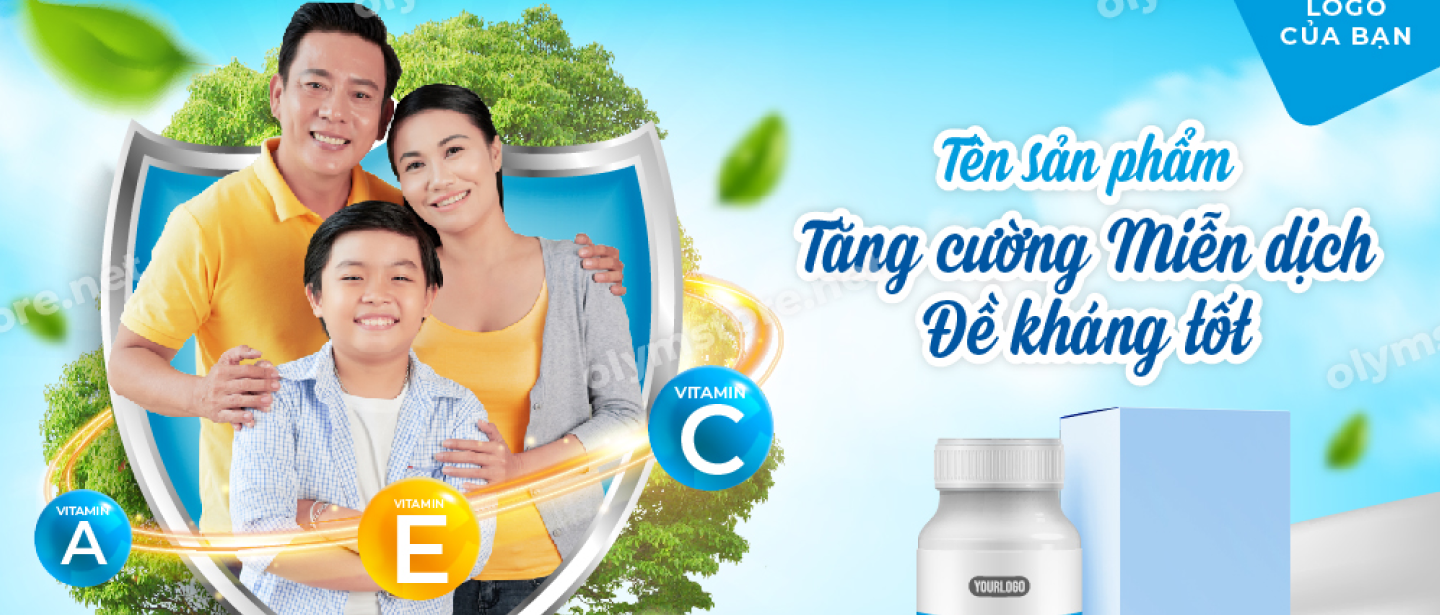
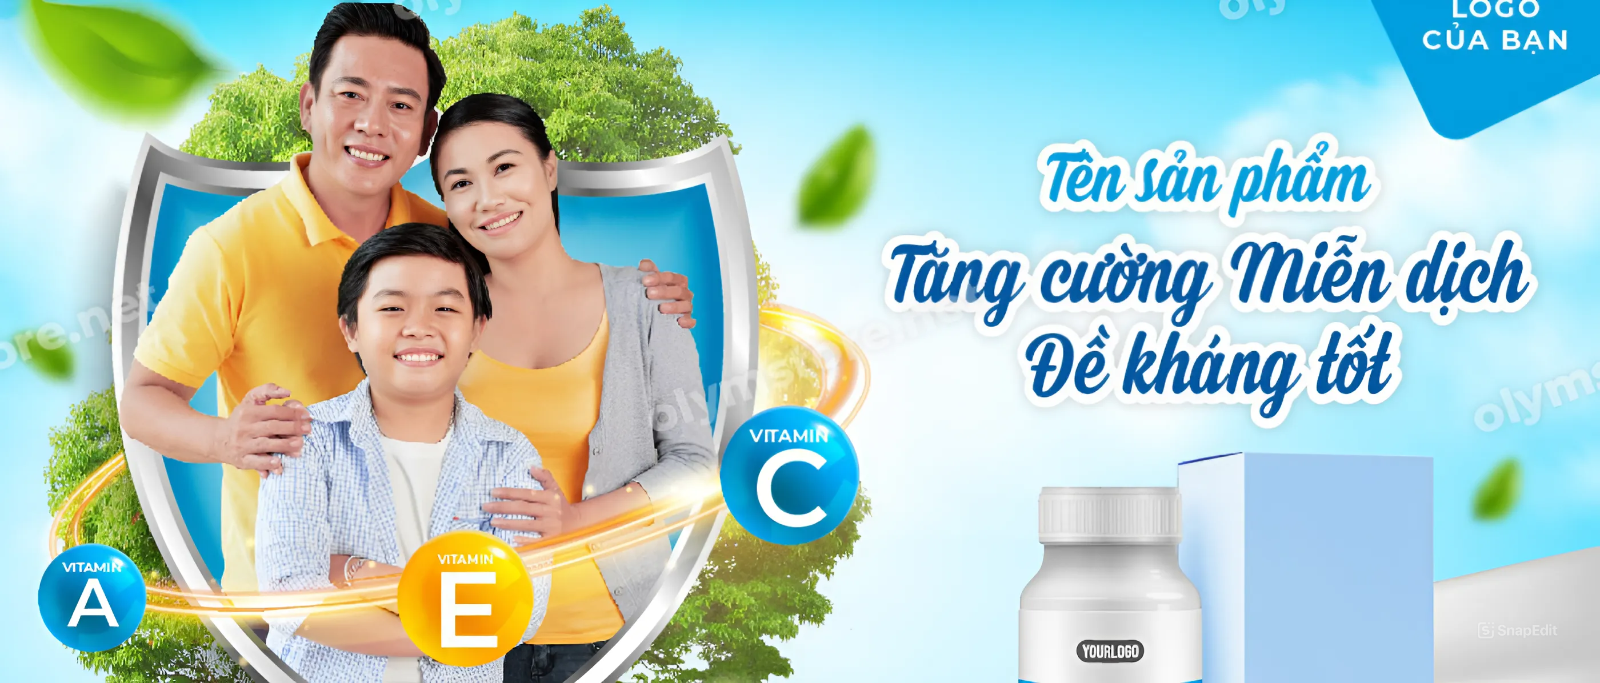
update

diff --git a/src/app/(client)/gioi-thieu/page.tsx b/src/app/(client)/gioi-thieu/page.tsx
@@ -5,6 +5,7 @@ import Hero from '@/components/hero';
 import SocialMediaHero from '@/components/hero/social-media';
 import VeritcalSlider from '@/components/section/vertical-slider.section';
 import { CarouselItem } from '@/components/ui/carousel';
+import Image from 'next/image';
 import React from 'react';
 
 export const revalidate = 3600;
@@ -17,6 +18,15 @@ export const metadata = {
 function GioiThieuPage() {
     return (
         <div className="page-container height-minus">
+            <Image
+                src={'/images/banner-gioi-thieu.jpeg'}
+                alt={`banner`}
+                width={0}
+                height={0}
+                sizes="100vw"
+                style={{ width: '100%', height: 'auto', objectFit: 'cover' }}
+                priority
+            />
             <Hero
                 background="white"
                 title="Tầm nhìn"

diff --git a/src/app/(client)/san-pham/page.tsx b/src/app/(client)/san-pham/page.tsx
@@ -50,7 +50,7 @@ async function SanPham() {
                 width={0}
                 height={0}
                 sizes="100vw"
-                style={{ width: '100%', height: 'auto', maxHeight: '615px', objectFit: 'cover' }}
+                style={{ width: '100%', height: 'auto', objectFit: 'cover' }}
                 priority
             />
             <div className="app-padding flex mobile:flex-col tablet:flex-row justify-between items-center mt-5 laptop:mt-15 desktop:mt-20 mobile:gap-4">

diff --git a/src/app/(client)/tin-tuc/_components/banner.tsx b/src/app/(client)/tin-tuc/_components/banner.tsx
@@ -9,7 +9,7 @@ function TinTucBanner() {
             width={0}
             height={0}
             sizes="100vw"
-            className="w-full h-auto max-h-[600px] object-cover"
+            className="w-full h-auto object-cover"
             priority
         />
     );
